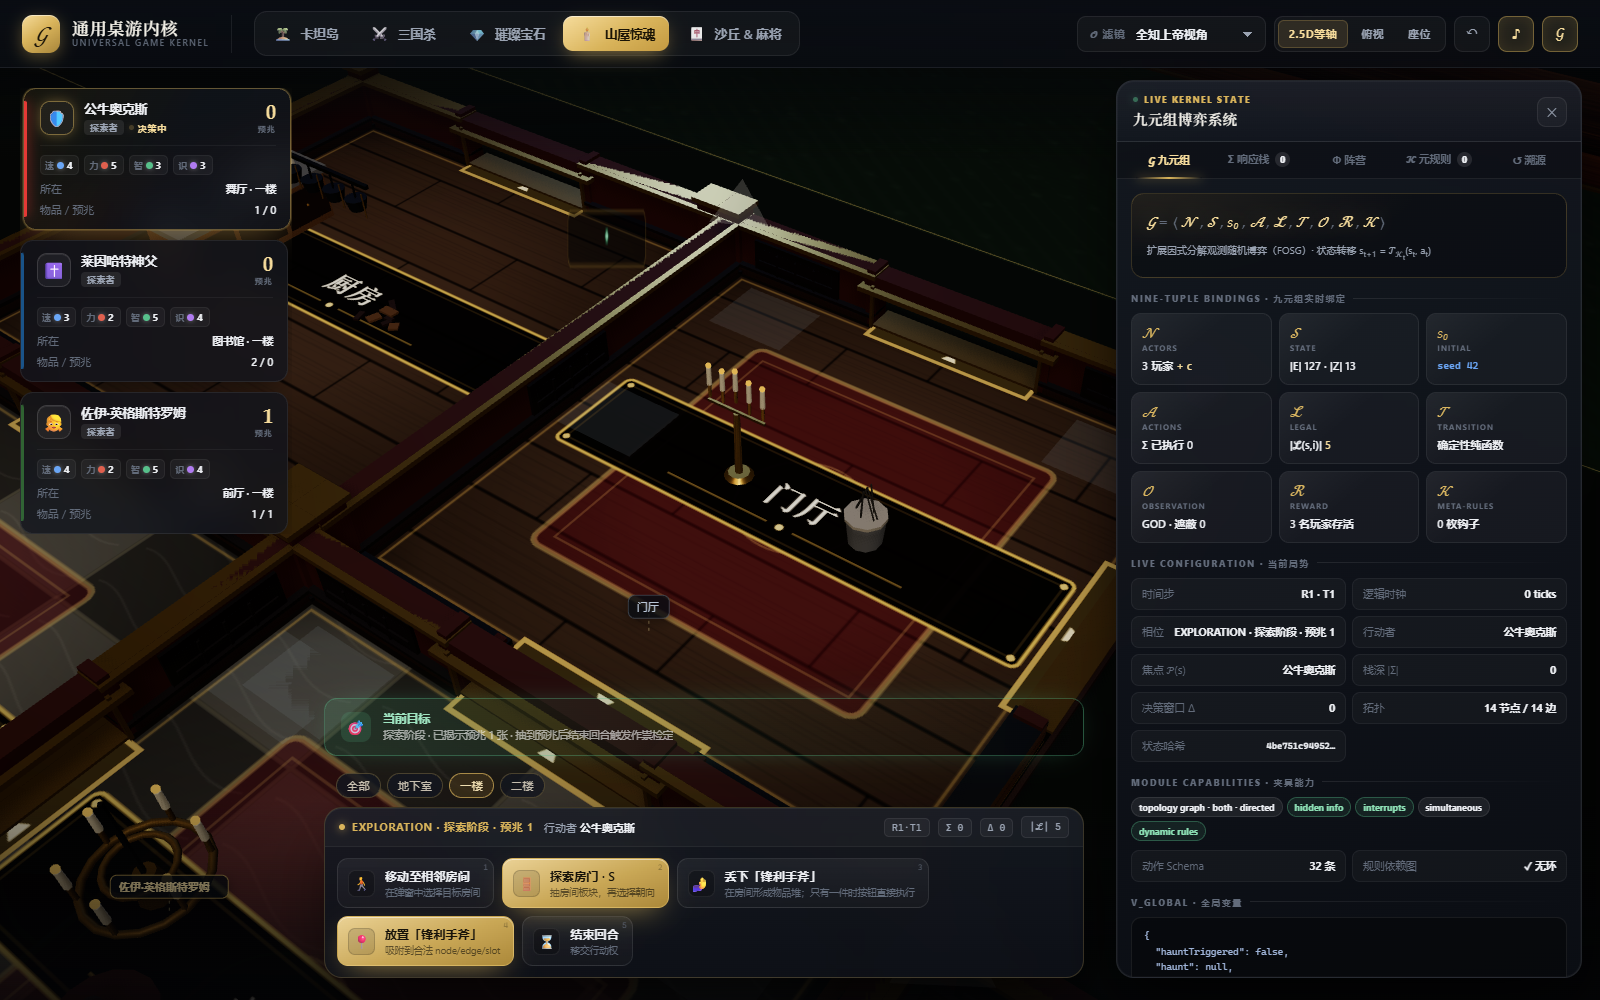
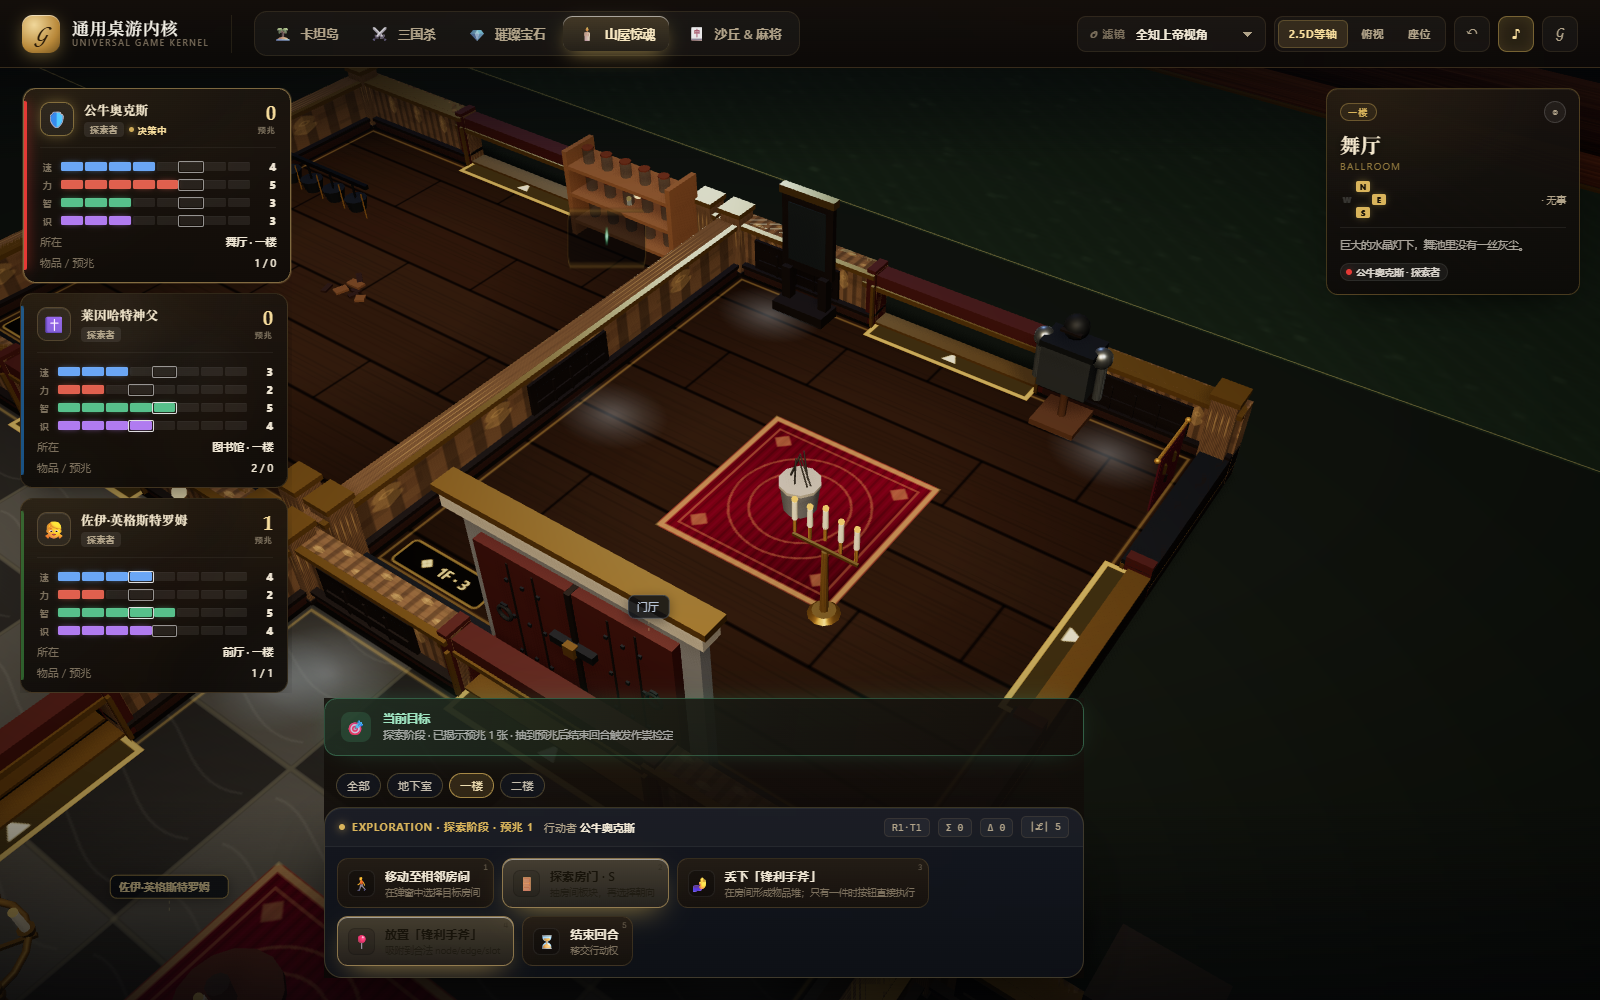
feat(render+ui): ajar wardrobe with hanging clothes, sealed front door, room pinning
- wardrobe rebuilt with interior rail, garments, folded linen and a half-open
  door whose swing is covered by its declared footprint
- entrance hall gets a sealed double front door (stone surround, studs,
  ring knockers, bar lock) taller than the cutaway wall
- clicking a room pins the dossier and repaints immediately; unpins when the
  active actor changes room
- audit entries SA-72..SA-74

diff --git a/src/render/procedural/props.ts b/src/render/procedural/props.ts
@@ -202,25 +202,61 @@ const singleBed = (): THREE.Group => {
   );
 };
 
+/**
+ * Armoire with the right-hand door standing ajar, revealing a rail of hanging
+ * clothes. The gap is what sells the model at this scale — a closed box only
+ * ever reads as "cabinet".
+ */
 const wardrobe = (): THREE.Group => {
   const W = 0.58;
   const H = 0.56;
   const D = 0.26;
   const g = new THREE.Group();
-  g.add(box(W, H, D, MAT.mahogany, 0, H / 2 + 0.04, 0));
-  g.add(box(W + 0.06, 0.05, D + 0.05, MAT.ebony, 0, H + 0.075, 0));
-  g.add(box(W + 0.02, 0.05, D + 0.02, MAT.ebony, 0, 0.03, 0));
-  // Doors
-  g.add(box(W / 2 - 0.03, H - 0.1, 0.015, MAT.walnut, -W / 4, H / 2 + 0.04, D / 2 + 0.005));
-  g.add(box(W / 2 - 0.03, H - 0.1, 0.015, MAT.walnut, W / 4, H / 2 + 0.04, D / 2 + 0.005));
-  // Recessed panels
-  for (const sx of [-1, 1]) {
-    g.add(box(W / 2 - 0.1, H * 0.5, 0.008, MAT.ebony, (sx * W) / 4, H * 0.62, D / 2 + 0.013, 0, false));
-    g.add(box(W / 2 - 0.1, H * 0.16, 0.008, MAT.ebony, (sx * W) / 4, H * 0.3, D / 2 + 0.013, 0, false));
+  const bodyZ = -0.02;
+
+  // Carcass: back, sides, top, plinth
+  g.add(box(W, H, 0.016, MAT.mahogany, 0, H / 2 + 0.04, bodyZ - D / 2 + 0.008));
+  g.add(box(0.016, H, D, MAT.mahogany, -W / 2 + 0.008, H / 2 + 0.04, bodyZ));
+  g.add(box(0.016, H, D, MAT.mahogany, W / 2 - 0.008, H / 2 + 0.04, bodyZ));
+  g.add(box(W, 0.022, D, MAT.mahogany, 0, H + 0.028, bodyZ));
+  g.add(box(W + 0.06, 0.05, D + 0.05, MAT.ebony, 0, H + 0.075, bodyZ));
+  g.add(box(W + 0.03, 0.05, D + 0.03, MAT.ebony, 0, 0.03, bodyZ));
+  // Interior partition + shelf
+  g.add(box(0.012, H - 0.08, D - 0.04, MAT.walnut, 0.02, H / 2 + 0.04, bodyZ, 0, false));
+  g.add(box(W - 0.05, 0.014, D - 0.05, MAT.walnut, 0, H * 0.72, bodyZ, 0, false));
+
+  // Hanging rail with garments in the left bay
+  const railX = -W / 4;
+  g.add(cyl(0.006, 0.006, H * 0.36, MAT.brass, railX, H * 0.86, bodyZ, 5, false));
+  const coatColors = [MAT.wineVelvet, MAT.plumVelvet, MAT.leather];
+  for (let i = 0; i < 3; i += 1) {
+    const z = bodyZ - 0.06 + i * 0.045;
+    g.add(box(0.075, 0.22, 0.026, coatColors[i % coatColors.length], railX, H * 0.72, z, 0, false));
+    g.add(box(0.05, 0.03, 0.02, MAT.ebony, railX, H * 0.855, z, 0, false));
   }
-  // Brass knobs
-  g.add(sph(0.014, MAT.brass, -0.026, H * 0.5, D / 2 + 0.024));
-  g.add(sph(0.014, MAT.brass, 0.026, H * 0.5, D / 2 + 0.024));
+  // Folded linen stack on the shelf
+  for (let i = 0; i < 2; i += 1) {
+    g.add(box(0.11, 0.028, 0.1, i === 0 ? MAT.agedLinen : MAT.linen, W * 0.2, H * 0.74 + i * 0.03, bodyZ, 0, false));
+  }
+
+  // Left door, closed
+  g.add(box(W / 2 - 0.028, H - 0.08, 0.014, MAT.walnut, -W / 4, H / 2 + 0.04, bodyZ + D / 2 - 0.01));
+  g.add(box(W / 2 - 0.1, H * 0.46, 0.008, MAT.ebony, -W / 4, H * 0.63, bodyZ + D / 2 - 0.002, 0, false));
+  g.add(box(W / 2 - 0.1, H * 0.15, 0.008, MAT.ebony, -W / 4, H * 0.3, bodyZ + D / 2 - 0.002, 0, false));
+
+  // Right door, hinged open toward the viewer
+  const doorPivot = new THREE.Group();
+  doorPivot.position.set(W / 2 - 0.012, 0, bodyZ + D / 2 - 0.012);
+  doorPivot.rotation.y = -0.45;
+  const doorW = W / 2 - 0.028;
+  doorPivot.add(box(doorW, H - 0.08, 0.014, MAT.walnut, -doorW / 2, H / 2 + 0.04, 0));
+  doorPivot.add(box(doorW - 0.07, H * 0.46, 0.008, MAT.ebony, -doorW / 2, H * 0.63, 0.011, 0, false));
+  doorPivot.add(box(doorW - 0.07, H * 0.15, 0.008, MAT.ebony, -doorW / 2, H * 0.3, 0.011, 0, false));
+  doorPivot.add(sph(0.013, MAT.brass, -doorW + 0.02, H * 0.5, 0.018));
+  g.add(doorPivot);
+
+  // Brass knob on the closed door
+  g.add(sph(0.013, MAT.brass, -0.03, H * 0.5, bodyZ + D / 2 + 0.006));
   return g;
 };
 
@@ -1222,7 +1258,7 @@ const cobweb = (): THREE.Group => {
 export const PROPS: Record<string, PropSpec> = {
   fourPosterBed: { id: 'fourPosterBed', build: fourPosterBed, width: 0.9, depth: 0.96, height: 0.55, anchor: 'N' },
   singleBed: { id: 'singleBed', build: singleBed, width: 0.58, depth: 0.92, height: 0.35, anchor: 'N' },
-  wardrobe: { id: 'wardrobe', build: wardrobe, width: 0.62, depth: 0.3, height: 0.66, anchor: 'N' },
+  wardrobe: { id: 'wardrobe', build: wardrobe, width: 0.62, depth: 0.4, height: 0.66, anchor: 'N' },
   nightstand: { id: 'nightstand', build: nightstand, width: 0.24, depth: 0.24, height: 0.34, anchor: 'N' },
   cradle: { id: 'cradle', build: cradle, width: 0.38, depth: 0.34, height: 0.4, anchor: 'N' },
   rockingHorse: { id: 'rockingHorse', build: rockingHorse, width: 0.46, depth: 0.24, height: 0.38, anchor: 'CENTER' },

diff --git a/src/render/procedural/roomTile.ts b/src/render/procedural/roomTile.ts
@@ -874,6 +874,60 @@ export class RoomTileBuilder {
   }
 
   /**
+   * The sealed front door of the mansion. The entrance hall is the first tile
+   * every game opens on, and its south wall is only a cutaway stub, so the door
+   * is a free-standing leaf pair that reads taller than the wall — implying the
+   * storey continues behind the cut.
+   */
+  private static addFrontDoor(target: THREE.Object3D): void {
+    const z = HALF - THICK - 0.02;
+    const W = DOOR_HALF * 2 - 0.02;
+    const H = 0.66;
+    const base = 0.12;
+
+    // Stone surround + carved lintel
+    this.addBox(target, W + 0.16, H + 0.12, 0.05, MAT.paleStone, 0, base + (H + 0.12) / 2, z - 0.01, false);
+    this.addBox(target, W + 0.26, 0.07, 0.09, MAT.marble, 0, base + H + 0.12, z + 0.01);
+    this.addBox(target, W + 0.3, 0.03, 0.11, MAT.brass, 0, base + H + 0.17, z + 0.01, false);
+
+    // Two leaves
+    for (const sx of [-1, 1]) {
+      const cx = sx * (W / 4 + 0.005);
+      this.addBox(target, W / 2 - 0.015, H, 0.045, MAT.mahogany, cx, base + H / 2, z + 0.035);
+      // Vertical plank seams
+      for (const dx of [-0.06, 0.06]) {
+        this.addBox(target, 0.008, H - 0.06, 0.05, MAT.ebony, cx + dx, base + H / 2, z + 0.036, false);
+      }
+      // Iron studs
+      for (let row = 0; row < 3; row += 1) {
+        for (let col = 0; col < 3; col += 1) {
+          this.addBox(
+            target,
+            0.014,
+            0.014,
+            0.012,
+            MAT.iron,
+            cx - 0.075 + col * 0.075,
+            base + 0.16 + row * 0.19,
+            z + 0.06,
+            false
+          );
+        }
+      }
+      // Ring knocker
+      const ring = new THREE.Mesh(new THREE.TorusGeometry(0.032, 0.008, 6, 14), MAT.iron);
+      ring.position.set(cx + sx * 0.12, base + H * 0.52, z + 0.065);
+      target.add(ring);
+      this.addBox(target, 0.03, 0.02, 0.014, MAT.iron, cx + sx * 0.12, base + H * 0.52 + 0.035, z + 0.06, false);
+    }
+
+    // Centre stile with a heavy bar lock
+    this.addBox(target, 0.024, H, 0.055, MAT.ebony, 0, base + H / 2, z + 0.04, false);
+    this.addBox(target, 0.2, 0.035, 0.03, MAT.iron, 0, base + H * 0.6, z + 0.075, false);
+    this.addBox(target, 0.05, 0.05, 0.03, MAT.agedBrass, 0, base + H * 0.6, z + 0.09, false);
+  }
+
+  /**
    * Builds the complete 2.5D room: floor slab, cutaway walls with trim,
    * door openings, a door-aware furniture layout, and merged draw calls.
    *
@@ -977,6 +1031,11 @@ export class RoomTileBuilder {
     }
 
     /* --------------------------- wall decoration --------------------------- */
+    // The mansion's sealed front door anchors the entrance hall.
+    if (options?.special === 'FRONT_DOOR' || roomId === 'entrance_hall') {
+      this.addFrontDoor(shell);
+    }
+
     // Tall furniture hides anything hung at eye level, so record how much each
     // wall run is already occupied before choosing what to hang.
     const usedWalls = new Map<DoorDir, number>();

diff --git a/src/ui/hud.ts b/src/ui/hud.ts
@@ -29,6 +29,9 @@ export class BoardGameHUD {
   private unsubNotice: (() => void) | null = null;
   private announceTimer: number | null = null;
   private latest: GameSnapshot | null = null;
+  /** Room the player last clicked; the dossier follows it until the turn moves. */
+  private pinnedRoomId?: string;
+  private lastActorRoomId?: string;
 
   constructor(
     container: HTMLElement,
@@ -346,6 +349,12 @@ export class BoardGameHUD {
   }
 
   private renderNotice(notice: UiNotice): void {
+    if (notice.roomId) {
+      this.pinnedRoomId = notice.roomId;
+      // Inspection does not dispatch an action, so no snapshot arrives with it:
+      // repaint the dossier straight away.
+      if (this.latest) this.renderRoomCard(this.latest);
+    }
     if (notice.kind === 'announce') {
       this.showAnnouncement(notice.title, notice.durationMs ?? 1800);
       return;
@@ -530,7 +539,16 @@ export class BoardGameHUD {
     const board = snapshot.board;
     const focusId = snapshot.focus[0] ?? snapshot.viewer;
     const actor = board.players[focusId];
-    const roomId = String(actor?.customProps?.currentRoomId ?? '');
+    const actorRoomId = String(actor?.customProps?.currentRoomId ?? '');
+
+    // Following the active actor is the default; a explicit room click pins the
+    // dossier until the actor moves somewhere else.
+    if (actorRoomId !== this.lastActorRoomId) {
+      this.lastActorRoomId = actorRoomId;
+      this.pinnedRoomId = undefined;
+    }
+    const pinnedNode = this.pinnedRoomId ? board.mapGraph.nodes[this.pinnedRoomId] : undefined;
+    const roomId = pinnedNode && pinnedNode.type === 'ROOM' ? this.pinnedRoomId! : actorRoomId;
     const node = roomId ? board.mapGraph.nodes[roomId] : undefined;
 
     if (!node || node.type !== 'ROOM') {

diff --git a/src/app/session.ts b/src/app/session.ts
@@ -299,16 +299,20 @@ export class UniversalSession implements GamePresenter {
     if ((pick.kind === 'node' || pick.kind === 'edge') && !this.activeBoardGroup) {
       const node = this.snapshot.board.mapGraph.nodes[pick.id];
       const edge = this.snapshot.board.mapGraph.edges[pick.id];
+      const isRoom = pick.kind === 'node' && node?.type === 'ROOM';
       const title =
         pick.kind === 'node'
           ? String(node?.props?.name ?? node?.type ?? '节点')
           : String(edge?.id ?? '边');
       this.emit({
         kind: 'event',
-        icon: '🔍',
-        title: `已选中 ${title}`,
-        detail: '这是查看操作；移动/建造请先从动作栏选择动作。',
-        durationMs: 3200
+        icon: isRoom ? '🏚' : '🔍',
+        title: isRoom ? `察看了 ${title}` : `已选中 ${title}`,
+        detail: isRoom
+          ? '房间档案已更新；点 ◎ 可拉近镜头观察陈设。'
+          : '这是查看操作；移动/建造请先从动作栏选择动作。',
+        durationMs: 2600,
+        roomId: isRoom ? pick.id : undefined
       });
       return { handled: true };
     }

diff --git a/src/app/contracts.ts b/src/app/contracts.ts
@@ -288,6 +288,8 @@ export interface UiNotice {
   tabHint?: 'G' | 'STACK' | 'FACTIONS' | 'HOOKS' | 'TIME';
   /** When present the HUD shows a framed card detail sheet. */
   card?: UiCardDetail;
+  /** Board inspection target: the HUD pins the room dossier to this node. */
+  roomId?: string;
 }
 
 export type BoardPickKind = 'node' | 'edge' | 'entity' | 'dice';

diff --git a/docs/SIMULATOR-AUDIT.md b/docs/SIMULATOR-AUDIT.md
@@ -180,6 +180,9 @@
 | SA-69 | P2 | 点击卡牌只能看到一个纯文本 toast，卡面信息（类别/次数/可交易）全部丢失 | `pickTarget` 对实体只发 `title + desc` 字符串 | `UiNotice` 增加可选 `card: UiCardDetail`；HUD 渲染**做旧羊皮纸卡牌浮层**：牌型色带（预兆=酒红/遗物=赭金/事件=铅灰）、火漆印章、英文副标题、描述正文、事实表（类别/剩余次数/不可交易/随从） | `scripts/shoot-card.mjs` 三种牌型均 `sheet=open` |
 | SA-70 | P2 | HUD 是冷调深蓝石板色，与山屋的烛光羊皮纸基调冲突 | 全站共用一套 slate 主题 | 新增 `theme-gothic.css`：`[data-theme="gothic"]` 覆盖 `--ink/--panel/--text/--muted` 等变量，并单独调校顶栏、游戏胶囊、角色卡、动作坞；HUD 按 `gameId === 'betrayal'` 自动挂载 | 舞厅/卡牌截图；其他四款游戏不受影响 |
 | SA-71 | P1 | 枝形吊灯悬在半空（洋馆剖面没有天花板），读起来像穿模 | `chandelier` 是 `ceiling` 摆件，固定挂在 y=0.95 | 重构为**落地六臂烛台**：三脚底座、车削灯柱、环形灯盘、六条托臂与烛焰，高 0.7；改为 CENTER 摆件参与布局碰撞 | 舞厅截图；`probe-layout` 166 placed |
+| SA-72 | P2 | 衣柜是一整块封闭方块，近看没有任何信息量 | 双门全闭，内部为空 | 衣柜重做：柜体分板 + 内部隔板与挂衣杆 + 三件外衣 + 叠放织物；**右门以 26° 半开**露出内部，开门方向纳入占地深度（depth 0.4）避免与邻件穿插 | 主卧/客房特写；`probe-overlap` 0 越界 |
+| SA-73 | P1 | 点击房间只是弹一条 toast，右侧房间档案不会跟随 | 检查操作不产生 state 变更，HUD 只在快照刷新时重绘 | `UiNotice` 增加 `roomId`；点击房间房间即"钉住"档案并立即重绘（不依赖快照），角色换房时自动解除钉住 | `scripts/tmp-pin` 实测 舞厅 → 点击门厅 → 卡片切到门厅，`◎` 镜头移入 |
+| SA-74 | P2 | 门厅是每局第一眼看到的房间，但只有 4 件小摆设，空旷 | 起始房间与普通房间共用同一套摆件清单 | 新增 `addFrontDoor()`：石质门套 + 大理石过梁 + 黄铜压顶 + 双扇实木门（竖向拼缝、铁铆钉阵、双铁门环、中央锁梁与黄铜锁芯），高度超出剖切矮墙以暗示楼层继续 | 门厅特写；`probe-overlap` 0 越界 |
 
 ---
 
